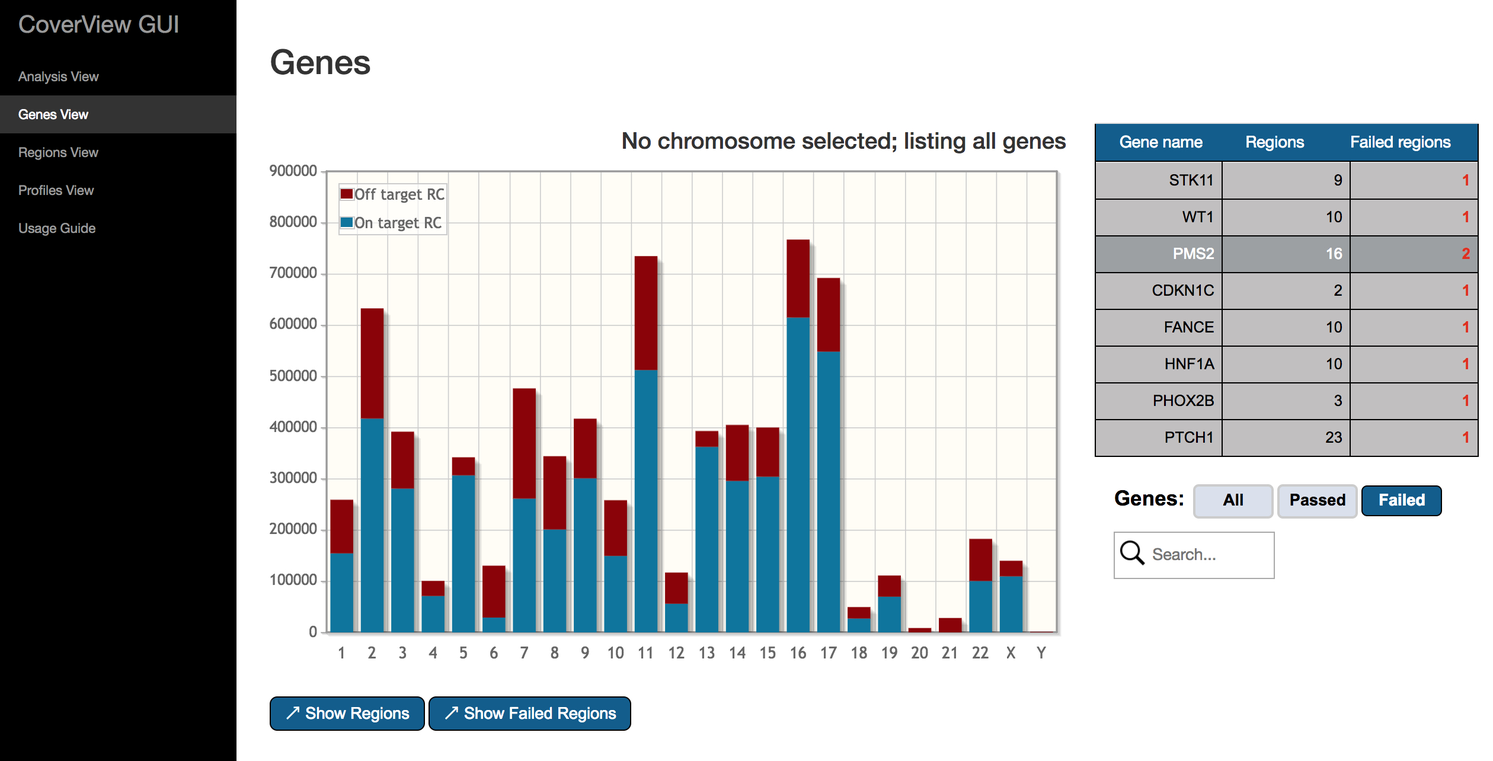
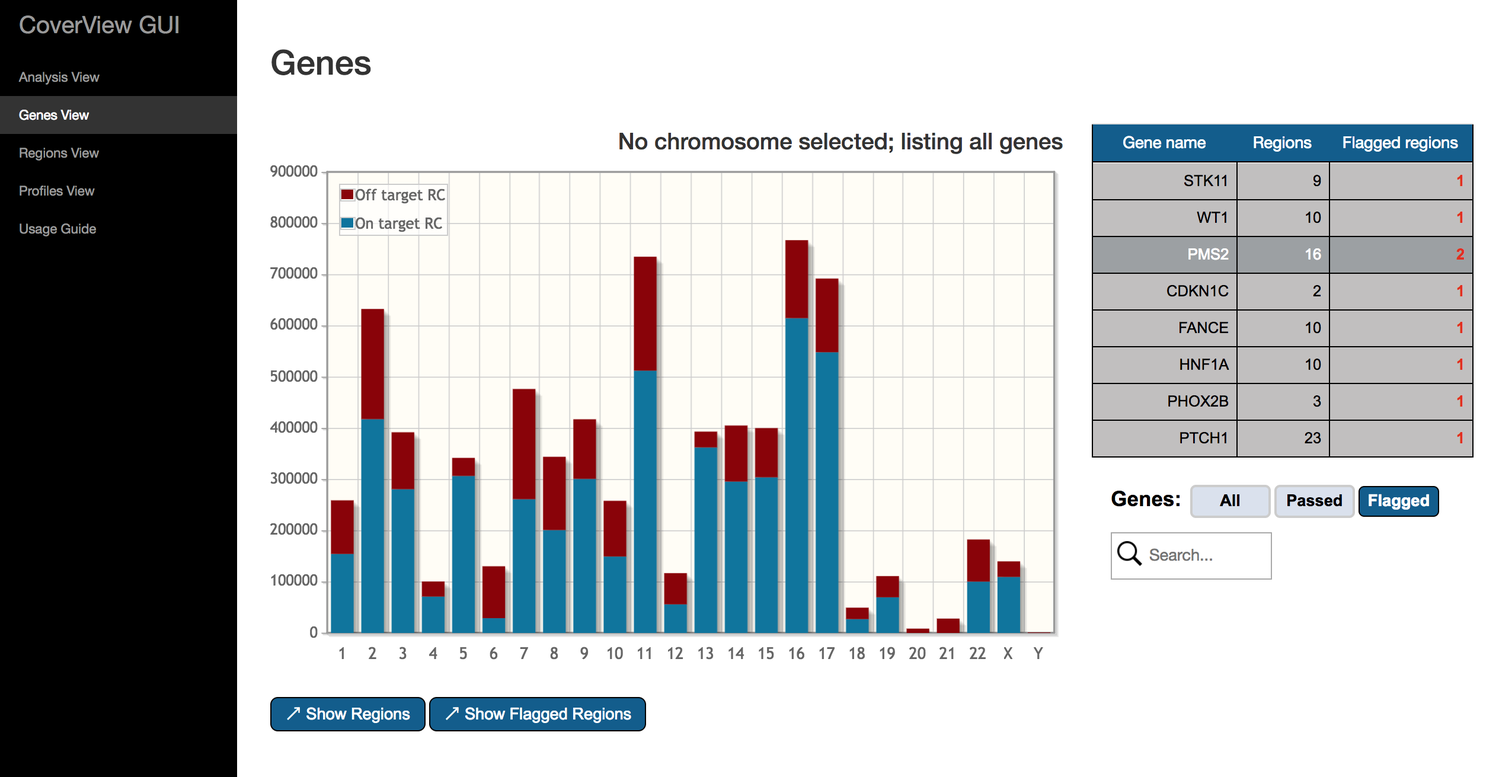
Figures updated in documentation

diff --git a/docs/searchindex.js b/docs/searchindex.js
@@ -1,1 +1,1 @@
-Search.setIndex({docnames:["documentation","index"],envversion:52,filenames:["documentation.rst","index.rst"],objects:{},objnames:{},objtypes:{},terms:{"4th":0,"boolean":0,"case":0,"default":0,"final":0,"import":0,"long":0,"new":[],"public":[],"switch":0,"true":0,Axes:0,For:0,That:[],The:1,These:0,With:1,_ensembldb_sect:[],_max:0,_meta:0,_min:0,_poor:0,_profil:0,_region:0,_summari:0,abov:0,accept:0,access:[],across:0,actual:[],add:0,added:0,addit:0,align:0,all:0,allow:0,alreadi:0,also:0,altern:0,analys:0,analysi:1,andth:[],ani:0,anoth:[],apt:0,arbitrari:0,argument:0,assess:[],avail:[],axes:0,axi:0,bai:0,bam:0,bar:0,base:1,bed:1,been:0,belong:0,below:0,between:0,bgzip:[],bin:[],bit:[],blabla:[],blablabla:[],blue:0,both:0,box:0,brace:[],brca2:0,brca2_1:0,brca2_2:0,brca2_3:0,browser:0,build:0,button:0,can:0,chang:0,chrom:0,chrome:0,chromosom:1,click:0,clutter:0,codit:[],color:0,column:0,come:0,comma:0,command:0,complex:[],comprehens:0,compress:[],compulsori:[],config:0,configur:1,configuraton:[],consid:0,consist:0,contain:0,content:1,continu:0,control:[],coordin:0,correctli:0,correspond:0,could:[],count:0,count_duplicate_read:[],cov:0,cover:0,coverag:0,coverview_1:[],coverview_x:[],creat:0,criteria:[],curli:[],current:0,cursor:0,cut:0,cutoff:[],dash:0,data:0,databas:0,dataset:0,date:0,debian:0,defin:0,definit:[],delet:0,denot:0,depend:1,dependecni:[],deriv:[],describ:0,descript:0,detail:0,dictionari:[],differ:0,diplai:0,direct:0,direction:[],directori:0,discuss:0,displai:0,dna:0,doe:[],done:[],doubl:[],download:0,downstream:0,drag:0,duplic:0,each:0,easi:[],easier:0,easiest:0,easili:0,effect:0,either:0,end:0,end_posit:0,end_transcript:0,ensembl:0,ensembl_db:1,ensembldb_sect:[],enst:0,env:[],equal:0,error:[],essenti:0,etc:0,evalu:0,everth:0,everyth:0,exact:0,exampl:0,example_config:[],example_profil:0,example_region:0,example_summari:0,exclud:0,exist:0,exom:0,exon:0,explan:[],explor:0,extra:0,extract:0,facilit:[],fai:0,faidx:0,fail:[],fals:0,fast:0,fasta:0,file:1,filter:0,find:0,finish:0,firefox:0,first:[],five:0,flag:0,flbq:0,flexibl:0,flmb:0,flmq:0,follow:0,format:0,forward:0,four:0,fourth:0,fraction:0,friendli:0,from:0,full:0,gcc:0,gene:1,gener:0,genesview:[],genom:0,get:0,git:[],github:0,give:0,given:0,global:0,gnu:0,googl:[],graph:0,graphic:1,group:0,gui:1,has:0,have:0,header:0,help:0,here:0,high:[],higher:[],highlight:0,horizont:0,hover:0,how:[],howev:0,http:[],identifi:0,illustr:0,imag:[],includ:0,incorrect:[],increas:0,index:0,inform:0,ini:0,ini_fil:[],input:0,instal:1,integ:0,interact:0,interest:0,interfac:1,introduct:1,its:0,javascipt:[],javascript:[],join:0,json:[],just:[],kei:0,label:0,languag:[],larger:0,later:0,least:0,left:0,less:[],level:1,like:[],line:0,link:0,linux:1,list:0,locat:0,look:[],lot:[],low:0,low_bq:0,low_mq:0,mac:1,mai:0,make:0,manag:0,mandatori:0,map:0,mark:0,maxflbq:0,maxflbq_max:0,maxflmq:0,maxflmq_max:[],maximum:0,mean:0,medbq:0,medcov:0,median:0,medmq:0,medqcov:0,metric:1,metric_max:0,metric_min:0,mincov:0,mincov_min:0,minimum:0,minqcov:0,minqcov_min:0,minumum:[],miss:0,modul:[],more:0,mous:0,move:0,multipl:0,must:0,name:0,navig:0,need:0,nest:[],next:0,none:0,normal:0,notat:[],note:0,number:0,oaf:[],object:[],obtain:[],obviou:[],off:0,onc:0,one:0,onli:0,only_fail_profil:[],only_flagged_profil:0,open:0,optimis:0,option:0,option_nam:[],option_valu:[],order:0,org:[],otherwis:0,out:0,output:1,outputprefix:[],outsid:0,over:0,overal:0,overlap:0,packag:0,page:[],pair:0,panel:0,paper:1,parsabl:0,part:[],particular:0,pass:0,pass_or_flag:0,path:0,per:1,pictur:[],pip:0,plot:0,png:[],point:0,poor:1,posit:0,possibl:0,pre:0,prefix:0,present:0,prevous:0,produc:[],profil:1,profiles_fil:0,provid:0,python2:0,python:0,qcov:0,qualiti:1,quot:[],rang:1,rcin:0,rcout:0,read:0,readi:0,record:0,red:0,redirect:0,ref:[],refer:0,regard:0,region:1,regions_fil:0,releas:0,relev:0,repeatedli:0,report:0,repres:0,request:[],requir:0,result:0,revers:0,right:0,row:0,run:1,safari:0,same:0,sampl:0,samtool:0,satisfi:0,scale:0,script:0,scrollabl:0,search:0,second:0,section:0,see:0,select:0,selector:0,separ:0,sequenc:0,seri:0,set:0,should:0,show:0,shown:0,side:0,simpl:0,simplifi:0,singl:0,smaller:0,soon:0,specif:[],specifi:0,stabl:[],start:0,start_posit:0,start_transcript:0,strand:0,string:[],studi:0,style:[],sub:0,subsect:0,successfulli:0,sudo:0,summar:0,summari:1,suppli:0,support:0,surround:[],swich:[],system:0,tabix:[],tabl:0,take:0,taken:0,tar:0,target:0,templat:[],termin:0,text:0,than:0,thei:0,them:0,thi:0,thing:0,those:0,threshold:0,time:[],togeth:0,too:0,tool:1,tooltip:0,top:0,total:0,transcript:0,transcript_coordin:0,transcript_databas:0,transcript_db:[],transript:[],two:0,txt:0,type:0,ubuntu:0,under:0,underscor:0,unmap:0,unpack:0,unselect:0,unzip:0,upstream:0,use:0,used:0,user:1,uses:0,using:0,v69:[],valid:[],valu:0,version:0,view:1,virtualenv:0,visibl:0,visual:0,wai:0,want:[],wayt:[],web:0,when:0,where:0,which:0,whilst:[],whole:0,wiki:[],wikipedia:[],window:1,within:0,without:1,would:0,write:[],written:0,xcode:0,xvzf:0,you:0,your:0,zip:0,zoom:0},titles:["1. Introduction","CoverView v1.4.1 documentation"],titleterms:{The:0,With:0,analysi:0,base:0,bed:0,chang:[],chromosom:0,configur:0,coverview:[0,1],depend:0,document:1,ensembl_db:0,file:0,futur:[],gene:0,graphic:0,gui:0,how:[],indic:[],instal:0,interfac:0,introduct:0,level:0,linux:0,mac:0,metric:0,output:0,paper:0,per:0,poor:0,profil:0,qualiti:0,rang:0,region:0,run:0,summari:0,tabl:[],target:[],tool:0,user:0,view:0,welcom:[],window:0,without:0}})
+Search.setIndex({docnames:["documentation","index"],envversion:52,filenames:["documentation.rst","index.rst"],objects:{},objnames:{},objtypes:{},terms:{"4th":0,"boolean":0,"case":0,"default":0,"final":0,"import":0,"long":0,"new":[],"public":[],"switch":0,"true":0,Axes:0,For:0,That:[],The:1,These:0,With:1,_ensembldb_sect:[],_max:0,_meta:0,_min:0,_poor:0,_profil:0,_region:0,_summari:0,abov:0,accept:0,access:[],across:0,actual:[],add:0,added:0,addit:0,align:0,all:0,allow:0,alreadi:0,also:0,altern:0,analys:0,analysi:1,andth:[],ani:0,anoth:[],apt:0,arbitrari:0,argument:0,assess:[],avail:[],axes:0,axi:0,bai:0,bam:0,bar:0,base:1,bed:1,been:0,belong:0,below:0,between:0,bgzip:[],bin:[],bit:[],blabla:[],blablabla:[],blue:0,both:0,box:0,brace:[],brca2:0,brca2_1:0,brca2_2:0,brca2_3:0,browser:0,build:0,button:0,can:0,chang:0,chrom:0,chrome:0,chromosom:1,click:0,clutter:0,codit:[],color:0,column:0,come:0,comma:0,command:0,complex:[],comprehens:0,compress:[],compulsori:[],config:0,configur:1,configuraton:[],consid:0,consist:0,contain:0,content:1,continu:0,control:[],coordin:0,correctli:0,correspond:0,could:[],count:0,count_duplicate_read:[],cov:0,cover:0,coverag:0,coverview_1:[],coverview_x:[],creat:0,criteria:[],curli:[],current:0,cursor:0,cut:0,cutoff:[],dash:0,data:0,databas:0,dataset:0,date:0,debian:0,defin:0,definit:[],delet:0,denot:0,depend:1,dependecni:[],deriv:[],describ:0,descript:0,detail:0,dictionari:[],differ:0,diplai:0,direct:0,direction:[],directori:0,discuss:0,displai:0,dna:0,doe:[],done:[],doubl:[],download:0,downstream:0,drag:0,duplic:0,each:0,easi:[],easier:0,easiest:0,easili:0,effect:0,either:0,end:0,end_posit:0,end_transcript:0,ensembl:0,ensembl_db:1,ensembldb_sect:[],enst:0,env:[],equal:0,error:[],essenti:0,etc:0,evalu:0,everth:0,everyth:0,exact:0,exampl:0,example_config:[],example_profil:0,example_region:0,example_summari:0,exclud:0,exist:0,exom:0,exon:0,explan:[],explor:0,extra:0,extract:0,facilit:[],fai:0,faidx:0,fail:[],fals:0,fast:0,fasta:0,file:1,filter:0,find:0,finish:0,firefox:0,first:[],five:0,flag:0,flbq:0,flexibl:0,flmb:0,flmq:0,follow:0,format:0,forward:0,four:0,fourth:0,fraction:0,friendli:0,from:0,full:0,gcc:0,gene:1,gener:0,genesview:[],genom:0,get:0,git:[],github:0,give:0,given:0,global:0,gnu:0,googl:[],graph:0,graphic:1,group:0,gui:1,has:0,have:0,header:0,help:0,here:0,high:[],higher:[],highlight:0,horizont:0,hover:0,how:[],howev:0,http:[],identifi:0,illustr:0,imag:[],includ:0,incorrect:[],increas:0,index:0,inform:0,ini:0,ini_fil:[],input:0,instal:1,integ:0,interact:0,interest:0,interfac:1,interv:1,introduct:1,its:0,javascipt:[],javascript:[],join:0,json:[],just:[],kei:0,label:0,languag:[],larger:0,later:0,least:0,left:0,less:[],level:1,like:[],line:0,link:0,linux:1,list:0,locat:0,look:[],lot:[],low:0,low_bq:0,low_mq:0,mac:1,mai:0,make:0,manag:0,mandatori:0,map:0,mark:0,maxflbq:0,maxflbq_max:0,maxflmq:0,maxflmq_max:[],maximum:0,mean:0,medbq:0,medcov:0,median:0,medmq:0,medqcov:0,metric:1,metric_max:0,metric_min:0,mincov:0,mincov_min:0,minimum:0,minqcov:0,minqcov_min:0,minumum:[],miss:0,modul:[],more:0,mous:0,move:0,multipl:0,must:0,name:0,navig:0,need:0,nest:[],next:0,none:0,normal:0,notat:[],note:0,number:0,oaf:[],object:[],obtain:[],obviou:[],off:0,onc:0,one:0,onli:0,only_fail_profil:[],only_flagged_profil:0,open:0,optimis:0,option:0,option_nam:[],option_valu:[],order:0,org:[],otherwis:0,out:0,output:1,outputprefix:[],outsid:0,over:0,overal:0,overlap:0,packag:0,page:[],pair:0,panel:0,paper:1,parsabl:0,part:[],particular:0,pass:0,pass_or_flag:0,path:0,per:1,pictur:[],pip:0,plot:0,png:[],point:0,poor:1,posit:0,possibl:0,pre:0,prefix:0,present:0,prevous:0,produc:[],profil:1,profiles_fil:0,provid:0,python2:0,python:0,qcov:0,qualiti:1,quot:[],rang:[],rcin:0,rcout:0,read:0,readi:0,record:0,red:0,redirect:0,ref:[],refer:0,regard:0,region:1,regions_fil:0,releas:0,relev:0,repeatedli:0,report:0,repres:0,request:[],requir:0,result:0,revers:0,right:0,row:0,run:1,safari:0,same:0,sampl:0,samtool:0,satisfi:0,scale:0,script:0,scrollabl:0,search:0,second:0,section:0,see:0,select:0,selector:0,separ:0,sequenc:0,seri:0,set:0,should:0,show:0,shown:0,side:0,simpl:0,simplifi:0,singl:0,smaller:0,soon:0,specif:[],specifi:0,stabl:[],start:0,start_posit:0,start_transcript:0,strand:0,string:[],studi:0,style:[],sub:0,subsect:0,successfulli:0,sudo:0,summar:0,summari:1,suppli:0,support:0,surround:[],swich:[],system:0,tabix:[],tabl:0,take:0,taken:0,tar:0,target:0,templat:[],termin:0,text:0,than:0,thei:0,them:0,thi:0,thing:0,those:0,threshold:0,time:[],togeth:0,too:0,tool:1,tooltip:0,top:0,total:0,transcript:0,transcript_coordin:0,transcript_databas:0,transcript_db:[],transript:[],two:0,txt:0,type:0,ubuntu:0,under:0,underscor:0,unmap:0,unpack:0,unselect:0,unzip:0,upstream:0,use:0,used:0,user:1,uses:0,using:0,v69:[],valid:[],valu:0,version:0,view:1,virtualenv:0,visibl:0,visual:0,wai:0,want:[],wayt:[],web:0,when:0,where:0,which:0,whilst:[],whole:0,wiki:[],wikipedia:[],window:1,within:0,without:1,would:0,write:[],written:0,xcode:0,xvzf:0,you:0,your:0,zip:0,zoom:0},titles:["1. Introduction","CoverView v1.4.1 documentation"],titleterms:{The:0,With:0,analysi:0,base:0,bed:0,chang:[],chromosom:0,configur:0,coverview:[0,1],depend:0,document:1,ensembl_db:0,file:0,futur:[],gene:0,graphic:0,gui:0,how:[],indic:[],instal:0,interfac:0,interv:0,introduct:0,level:0,linux:0,mac:0,metric:0,output:0,paper:0,per:0,poor:0,profil:0,qualiti:0,rang:[],region:0,run:0,summari:0,tabl:[],target:[],tool:0,user:0,view:0,welcom:[],window:0,without:0}})

diff --git a/docs/sphinx/_build/html/searchindex.js b/docs/sphinx/_build/html/searchindex.js
@@ -1,1 +1,1 @@
-Search.setIndex({docnames:["documentation","index"],envversion:52,filenames:["documentation.rst","index.rst"],objects:{},objnames:{},objtypes:{},terms:{"4th":0,"boolean":0,"case":0,"default":0,"final":0,"import":0,"long":0,"new":[],"public":[],"switch":0,"true":0,Axes:0,For:0,That:[],The:1,These:0,With:1,_ensembldb_sect:[],_max:0,_meta:0,_min:0,_poor:0,_profil:0,_region:0,_summari:0,abov:0,accept:0,access:[],across:0,actual:[],add:0,added:0,addit:0,align:0,all:0,allow:0,alreadi:0,also:0,altern:0,analys:0,analysi:1,andth:[],ani:0,anoth:[],apt:0,arbitrari:0,argument:0,assess:[],avail:[],axes:0,axi:0,bai:0,bam:0,bar:0,base:1,bed:1,been:0,belong:0,below:0,between:0,bgzip:[],bin:[],bit:[],blabla:[],blablabla:[],blue:0,both:0,box:0,brace:[],brca2:0,brca2_1:0,brca2_2:0,brca2_3:0,browser:0,build:0,button:0,can:0,chang:0,chrom:0,chrome:0,chromosom:1,click:0,clutter:0,codit:[],color:0,column:0,come:0,comma:0,command:0,complex:[],comprehens:0,compress:[],compulsori:[],config:0,configur:1,configuraton:[],consid:0,consist:0,contain:0,content:1,continu:0,control:[],coordin:0,correctli:0,correspond:0,could:[],count:0,count_duplicate_read:[],cov:0,cover:0,coverag:0,coverview_1:[],coverview_x:[],creat:0,criteria:[],curli:[],current:0,cursor:0,cut:0,cutoff:[],dash:0,data:0,databas:0,dataset:0,date:0,debian:0,defin:0,definit:[],delet:0,denot:0,depend:1,dependecni:[],deriv:[],describ:0,descript:0,detail:0,dictionari:[],differ:0,diplai:0,direct:0,direction:[],directori:0,discuss:0,displai:0,dna:0,doe:[],done:[],doubl:[],download:0,downstream:0,drag:0,duplic:0,each:0,easi:[],easier:0,easiest:0,easili:0,effect:0,either:0,end:0,end_posit:0,end_transcript:0,ensembl:0,ensembl_db:1,ensembldb_sect:[],enst:0,env:[],equal:0,error:[],essenti:0,etc:0,evalu:0,everth:0,everyth:0,exact:0,exampl:0,example_config:[],example_profil:0,example_region:0,example_summari:0,exclud:0,exist:0,exom:0,exon:0,explan:[],explor:0,extra:0,extract:0,facilit:[],fai:0,faidx:0,fail:[],fals:0,fast:0,fasta:0,file:1,filter:0,find:0,finish:0,firefox:0,first:[],five:0,flag:0,flbq:0,flexibl:0,flmb:0,flmq:0,follow:0,format:0,forward:0,four:0,fourth:0,fraction:0,friendli:0,from:0,full:0,gcc:0,gene:1,gener:0,genesview:[],genom:0,get:0,git:[],github:0,give:0,given:0,global:0,gnu:0,googl:[],graph:0,graphic:1,group:0,gui:1,has:0,have:0,header:0,help:0,here:0,high:[],higher:[],highlight:0,horizont:0,hover:0,how:[],howev:0,http:[],identifi:0,illustr:0,imag:[],includ:0,incorrect:[],increas:0,index:0,inform:0,ini:0,ini_fil:[],input:0,instal:1,integ:0,interact:0,interest:0,interfac:1,introduct:1,its:0,javascipt:[],javascript:[],join:0,json:[],just:[],kei:0,label:0,languag:[],larger:0,later:0,least:0,left:0,less:[],level:1,like:[],line:0,link:0,linux:1,list:0,locat:0,look:[],lot:[],low:0,low_bq:0,low_mq:0,mac:1,mai:0,make:0,manag:0,mandatori:0,map:0,mark:0,maxflbq:0,maxflbq_max:0,maxflmq:0,maxflmq_max:[],maximum:0,mean:0,medbq:0,medcov:0,median:0,medmq:0,medqcov:0,metric:1,metric_max:0,metric_min:0,mincov:0,mincov_min:0,minimum:0,minqcov:0,minqcov_min:0,minumum:[],miss:0,modul:[],more:0,mous:0,move:0,multipl:0,must:0,name:0,navig:0,need:0,nest:[],next:0,none:0,normal:0,notat:[],note:0,number:0,oaf:[],object:[],obtain:[],obviou:[],off:0,onc:0,one:0,onli:0,only_fail_profil:[],only_flagged_profil:0,open:0,optimis:0,option:0,option_nam:[],option_valu:[],order:0,org:[],otherwis:0,out:0,output:1,outputprefix:[],outsid:0,over:0,overal:0,overlap:0,packag:0,page:[],pair:0,panel:0,paper:1,parsabl:0,part:[],particular:0,pass:0,pass_or_flag:0,path:0,per:1,pictur:[],pip:0,plot:0,png:[],point:0,poor:1,posit:0,possibl:0,pre:0,prefix:0,present:0,prevous:0,produc:[],profil:1,profiles_fil:0,provid:0,python2:0,python:0,qcov:0,qualiti:1,quot:[],rang:1,rcin:0,rcout:0,read:0,readi:0,record:0,red:0,redirect:0,ref:[],refer:0,regard:0,region:1,regions_fil:0,releas:0,relev:0,repeatedli:0,report:0,repres:0,request:[],requir:0,result:0,revers:0,right:0,row:0,run:1,safari:0,same:0,sampl:0,samtool:0,satisfi:0,scale:0,script:0,scrollabl:0,search:0,second:0,section:0,see:0,select:0,selector:0,separ:0,sequenc:0,seri:0,set:0,should:0,show:0,shown:0,side:0,simpl:0,simplifi:0,singl:0,smaller:0,soon:0,specif:[],specifi:0,stabl:[],start:0,start_posit:0,start_transcript:0,strand:0,string:[],studi:0,style:[],sub:0,subsect:0,successfulli:0,sudo:0,summar:0,summari:1,suppli:0,support:0,surround:[],swich:[],system:0,tabix:[],tabl:0,take:0,taken:0,tar:0,target:0,templat:[],termin:0,text:0,than:0,thei:0,them:0,thi:0,thing:0,those:0,threshold:0,time:[],togeth:0,too:0,tool:1,tooltip:0,top:0,total:0,transcript:0,transcript_coordin:0,transcript_databas:0,transcript_db:[],transript:[],two:0,txt:0,type:0,ubuntu:0,under:0,underscor:0,unmap:0,unpack:0,unselect:0,unzip:0,upstream:0,use:0,used:0,user:1,uses:0,using:0,v69:[],valid:[],valu:0,version:0,view:1,virtualenv:0,visibl:0,visual:0,wai:0,want:[],wayt:[],web:0,when:0,where:0,which:0,whilst:[],whole:0,wiki:[],wikipedia:[],window:1,within:0,without:1,would:0,write:[],written:0,xcode:0,xvzf:0,you:0,your:0,zip:0,zoom:0},titles:["1. Introduction","CoverView v1.4.1 documentation"],titleterms:{The:0,With:0,analysi:0,base:0,bed:0,chang:[],chromosom:0,configur:0,coverview:[0,1],depend:0,document:1,ensembl_db:0,file:0,futur:[],gene:0,graphic:0,gui:0,how:[],indic:[],instal:0,interfac:0,introduct:0,level:0,linux:0,mac:0,metric:0,output:0,paper:0,per:0,poor:0,profil:0,qualiti:0,rang:0,region:0,run:0,summari:0,tabl:[],target:[],tool:0,user:0,view:0,welcom:[],window:0,without:0}})
+Search.setIndex({docnames:["documentation","index"],envversion:52,filenames:["documentation.rst","index.rst"],objects:{},objnames:{},objtypes:{},terms:{"4th":0,"boolean":0,"case":0,"default":0,"final":0,"import":0,"long":0,"new":[],"public":[],"switch":0,"true":0,Axes:0,For:0,That:[],The:1,These:0,With:1,_ensembldb_sect:[],_max:0,_meta:0,_min:0,_poor:0,_profil:0,_region:0,_summari:0,abov:0,accept:0,access:[],across:0,actual:[],add:0,added:0,addit:0,align:0,all:0,allow:0,alreadi:0,also:0,altern:0,analys:0,analysi:1,andth:[],ani:0,anoth:[],apt:0,arbitrari:0,argument:0,assess:[],avail:[],axes:0,axi:0,bai:0,bam:0,bar:0,base:1,bed:1,been:0,belong:0,below:0,between:0,bgzip:[],bin:[],bit:[],blabla:[],blablabla:[],blue:0,both:0,box:0,brace:[],brca2:0,brca2_1:0,brca2_2:0,brca2_3:0,browser:0,build:0,button:0,can:0,chang:0,chrom:0,chrome:0,chromosom:1,click:0,clutter:0,codit:[],color:0,column:0,come:0,comma:0,command:0,complex:[],comprehens:0,compress:[],compulsori:[],config:0,configur:1,configuraton:[],consid:0,consist:0,contain:0,content:1,continu:0,control:[],coordin:0,correctli:0,correspond:0,could:[],count:0,count_duplicate_read:[],cov:0,cover:0,coverag:0,coverview_1:[],coverview_x:[],creat:0,criteria:[],curli:[],current:0,cursor:0,cut:0,cutoff:[],dash:0,data:0,databas:0,dataset:0,date:0,debian:0,defin:0,definit:[],delet:0,denot:0,depend:1,dependecni:[],deriv:[],describ:0,descript:0,detail:0,dictionari:[],differ:0,diplai:0,direct:0,direction:[],directori:0,discuss:0,displai:0,dna:0,doe:[],done:[],doubl:[],download:0,downstream:0,drag:0,duplic:0,each:0,easi:[],easier:0,easiest:0,easili:0,effect:0,either:0,end:0,end_posit:0,end_transcript:0,ensembl:0,ensembl_db:1,ensembldb_sect:[],enst:0,env:[],equal:0,error:[],essenti:0,etc:0,evalu:0,everth:0,everyth:0,exact:0,exampl:0,example_config:[],example_profil:0,example_region:0,example_summari:0,exclud:0,exist:0,exom:0,exon:0,explan:[],explor:0,extra:0,extract:0,facilit:[],fai:0,faidx:0,fail:[],fals:0,fast:0,fasta:0,file:1,filter:0,find:0,finish:0,firefox:0,first:[],five:0,flag:0,flbq:0,flexibl:0,flmb:0,flmq:0,follow:0,format:0,forward:0,four:0,fourth:0,fraction:0,friendli:0,from:0,full:0,gcc:0,gene:1,gener:0,genesview:[],genom:0,get:0,git:[],github:0,give:0,given:0,global:0,gnu:0,googl:[],graph:0,graphic:1,group:0,gui:1,has:0,have:0,header:0,help:0,here:0,high:[],higher:[],highlight:0,horizont:0,hover:0,how:[],howev:0,http:[],identifi:0,illustr:0,imag:[],includ:0,incorrect:[],increas:0,index:0,inform:0,ini:0,ini_fil:[],input:0,instal:1,integ:0,interact:0,interest:0,interfac:1,interv:1,introduct:1,its:0,javascipt:[],javascript:[],join:0,json:[],just:[],kei:0,label:0,languag:[],larger:0,later:0,least:0,left:0,less:[],level:1,like:[],line:0,link:0,linux:1,list:0,locat:0,look:[],lot:[],low:0,low_bq:0,low_mq:0,mac:1,mai:0,make:0,manag:0,mandatori:0,map:0,mark:0,maxflbq:0,maxflbq_max:0,maxflmq:0,maxflmq_max:[],maximum:0,mean:0,medbq:0,medcov:0,median:0,medmq:0,medqcov:0,metric:1,metric_max:0,metric_min:0,mincov:0,mincov_min:0,minimum:0,minqcov:0,minqcov_min:0,minumum:[],miss:0,modul:[],more:0,mous:0,move:0,multipl:0,must:0,name:0,navig:0,need:0,nest:[],next:0,none:0,normal:0,notat:[],note:0,number:0,oaf:[],object:[],obtain:[],obviou:[],off:0,onc:0,one:0,onli:0,only_fail_profil:[],only_flagged_profil:0,open:0,optimis:0,option:0,option_nam:[],option_valu:[],order:0,org:[],otherwis:0,out:0,output:1,outputprefix:[],outsid:0,over:0,overal:0,overlap:0,packag:0,page:[],pair:0,panel:0,paper:1,parsabl:0,part:[],particular:0,pass:0,pass_or_flag:0,path:0,per:1,pictur:[],pip:0,plot:0,png:[],point:0,poor:1,posit:0,possibl:0,pre:0,prefix:0,present:0,prevous:0,produc:[],profil:1,profiles_fil:0,provid:0,python2:0,python:0,qcov:0,qualiti:1,quot:[],rang:[],rcin:0,rcout:0,read:0,readi:0,record:0,red:0,redirect:0,ref:[],refer:0,regard:0,region:1,regions_fil:0,releas:0,relev:0,repeatedli:0,report:0,repres:0,request:[],requir:0,result:0,revers:0,right:0,row:0,run:1,safari:0,same:0,sampl:0,samtool:0,satisfi:0,scale:0,script:0,scrollabl:0,search:0,second:0,section:0,see:0,select:0,selector:0,separ:0,sequenc:0,seri:0,set:0,should:0,show:0,shown:0,side:0,simpl:0,simplifi:0,singl:0,smaller:0,soon:0,specif:[],specifi:0,stabl:[],start:0,start_posit:0,start_transcript:0,strand:0,string:[],studi:0,style:[],sub:0,subsect:0,successfulli:0,sudo:0,summar:0,summari:1,suppli:0,support:0,surround:[],swich:[],system:0,tabix:[],tabl:0,take:0,taken:0,tar:0,target:0,templat:[],termin:0,text:0,than:0,thei:0,them:0,thi:0,thing:0,those:0,threshold:0,time:[],togeth:0,too:0,tool:1,tooltip:0,top:0,total:0,transcript:0,transcript_coordin:0,transcript_databas:0,transcript_db:[],transript:[],two:0,txt:0,type:0,ubuntu:0,under:0,underscor:0,unmap:0,unpack:0,unselect:0,unzip:0,upstream:0,use:0,used:0,user:1,uses:0,using:0,v69:[],valid:[],valu:0,version:0,view:1,virtualenv:0,visibl:0,visual:0,wai:0,want:[],wayt:[],web:0,when:0,where:0,which:0,whilst:[],whole:0,wiki:[],wikipedia:[],window:1,within:0,without:1,would:0,write:[],written:0,xcode:0,xvzf:0,you:0,your:0,zip:0,zoom:0},titles:["1. Introduction","CoverView v1.4.1 documentation"],titleterms:{The:0,With:0,analysi:0,base:0,bed:0,chang:[],chromosom:0,configur:0,coverview:[0,1],depend:0,document:1,ensembl_db:0,file:0,futur:[],gene:0,graphic:0,gui:0,how:[],indic:[],instal:0,interfac:0,interv:0,introduct:0,level:0,linux:0,mac:0,metric:0,output:0,paper:0,per:0,poor:0,profil:0,qualiti:0,rang:[],region:0,run:0,summari:0,tabl:[],target:[],tool:0,user:0,view:0,welcom:[],window:0,without:0}})

diff --git a/docs/documentation.html b/docs/documentation.html
@@ -255,7 +255,7 @@ name of the input BAM file (-i), the name of a BED file (-b) and the output file
 <li>&lt;prefix&gt;_summary.txt (chromosome level summary)</li>
 <li>&lt;prefix&gt;_profiles.txt (per-base profiles)</li>
 <li>&lt;prefix&gt;_regions.txt (summary metrics of regions)</li>
-<li>&lt;prefix&gt;_poor.txt (poor quality ranges)</li>
+<li>&lt;prefix&gt;_poor.txt (poor quality intervals)</li>
 </ul>
 <p>where &lt;prefix&gt; denotes the output file name prefix specified by the -o command line option. (Note that an additional file, &lt;prefix&gt;_meta.txt, is also created that is required by the GUI.)</p>
 <div class="section" id="chromosome-level-summary">
@@ -398,9 +398,9 @@ name of the input BAM file (-i), the name of a BED file (-b) and the output file
 <li><code class="docutils literal"><span class="pre">MEDCOV-</span></code>, <code class="docutils literal"><span class="pre">MINCOV-</span></code>, <code class="docutils literal"><span class="pre">MEDQCOV-</span></code>, <code class="docutils literal"><span class="pre">MINQCOV-</span></code>, <code class="docutils literal"><span class="pre">MAXFLMQ-</span></code> and <code class="docutils literal"><span class="pre">MAXFLBQ-</span></code>: the same information, considering only reverse reads</li>
 </ul>
 </div>
-<div class="section" id="poor-quality-ranges">
-<h2>5.4. Poor quality ranges<a class="headerlink" href="#poor-quality-ranges" title="Permalink to this headline">¶</a></h2>
-<p>If the <code class="docutils literal"><span class="pre">profiles_file</span></code> option is set to <em>true</em> in both the [outputs] section and [transcript] section of the configuration file, CoverView will create a fourth output file; <em>&lt;prefix&gt;_poor.txt</em>. This file provides a comprehensive list of all continuous ranges within the studied regions with QCOV&lt;15 for all bases (referred to as <em>“poor quality ranges”</em>). Note that multiple such ranges may exist in a single region. Each line in the file corresponds to a <em>poor quality range</em> with the following 6 columns:</p>
+<div class="section" id="poor-quality-intervals">
+<h2>5.4. Poor quality intervals<a class="headerlink" href="#poor-quality-intervals" title="Permalink to this headline">¶</a></h2>
+<p>If the <code class="docutils literal"><span class="pre">profiles_file</span></code> option is set to <em>true</em> in both the [outputs] section and [transcript] section of the configuration file, CoverView will create a fourth output file; <em>&lt;prefix&gt;_poor.txt</em>. This file provides a comprehensive list of all continuous intervals within the studied regions with QCOV&lt;15 for all bases (referred to as <em>“poor quality intervals”</em>). Note that multiple such intervals may exist in a single region. Each line in the file corresponds to a <em>poor quality interval</em> with the following 6 columns:</p>
 <table border="1" class="colwidths-given docutils">
 <colgroup>
 <col width="13%" />
@@ -413,22 +413,22 @@ name of the input BAM file (-i), the name of a BED file (-b) and the output file
 </thead>
 <tbody valign="top">
 <tr class="row-even"><td>Region</td>
-<td>name of region which contains the range</td>
+<td>name of region which contains the interval</td>
 </tr>
 <tr class="row-odd"><td>Chromosome</td>
 <td>chromosome name</td>
 </tr>
 <tr class="row-even"><td>Start_position</td>
-<td>start position of range on chromosome</td>
+<td>start position of interval on chromosome</td>
 </tr>
 <tr class="row-odd"><td>End_position</td>
-<td>end position of range on chromosome</td>
+<td>end position of interval on chromosome</td>
 </tr>
 <tr class="row-even"><td>Start_transcript</td>
-<td>start coordinate of range in the overlapping transcript</td>
+<td>start coordinate of interval in the overlapping transcript</td>
 </tr>
 <tr class="row-odd"><td>End_transcript</td>
-<td>end coordinate of range in the overlapping transcript</td>
+<td>end coordinate of interval in the overlapping transcript</td>
 </tr>
 </tbody>
 </table>
@@ -519,7 +519,7 @@ name of the input BAM file (-i), the name of a BED file (-b) and the output file
 <li><a class="reference internal" href="#chromosome-level-summary">5.1. Chromosome level summary</a></li>
 <li><a class="reference internal" href="#per-base-profiles">5.2. Per-base profiles</a></li>
 <li><a class="reference internal" href="#summary-metrics-of-regions">5.3. Summary metrics of regions</a></li>
-<li><a class="reference internal" href="#poor-quality-ranges">5.4. Poor quality ranges</a></li>
+<li><a class="reference internal" href="#poor-quality-intervals">5.4. Poor quality intervals</a></li>
 </ul>
 </li>
 <li><a class="reference internal" href="#graphical-user-interface-gui">6. Graphical User Interface (GUI)</a><ul>

diff --git a/docs/sphinx/_build/html/documentation.html b/docs/sphinx/_build/html/documentation.html
@@ -255,7 +255,7 @@ name of the input BAM file (-i), the name of a BED file (-b) and the output file
 <li>&lt;prefix&gt;_summary.txt (chromosome level summary)</li>
 <li>&lt;prefix&gt;_profiles.txt (per-base profiles)</li>
 <li>&lt;prefix&gt;_regions.txt (summary metrics of regions)</li>
-<li>&lt;prefix&gt;_poor.txt (poor quality ranges)</li>
+<li>&lt;prefix&gt;_poor.txt (poor quality intervals)</li>
 </ul>
 <p>where &lt;prefix&gt; denotes the output file name prefix specified by the -o command line option. (Note that an additional file, &lt;prefix&gt;_meta.txt, is also created that is required by the GUI.)</p>
 <div class="section" id="chromosome-level-summary">
@@ -398,9 +398,9 @@ name of the input BAM file (-i), the name of a BED file (-b) and the output file
 <li><code class="docutils literal"><span class="pre">MEDCOV-</span></code>, <code class="docutils literal"><span class="pre">MINCOV-</span></code>, <code class="docutils literal"><span class="pre">MEDQCOV-</span></code>, <code class="docutils literal"><span class="pre">MINQCOV-</span></code>, <code class="docutils literal"><span class="pre">MAXFLMQ-</span></code> and <code class="docutils literal"><span class="pre">MAXFLBQ-</span></code>: the same information, considering only reverse reads</li>
 </ul>
 </div>
-<div class="section" id="poor-quality-ranges">
-<h2>5.4. Poor quality ranges<a class="headerlink" href="#poor-quality-ranges" title="Permalink to this headline">¶</a></h2>
-<p>If the <code class="docutils literal"><span class="pre">profiles_file</span></code> option is set to <em>true</em> in both the [outputs] section and [transcript] section of the configuration file, CoverView will create a fourth output file; <em>&lt;prefix&gt;_poor.txt</em>. This file provides a comprehensive list of all continuous ranges within the studied regions with QCOV&lt;15 for all bases (referred to as <em>“poor quality ranges”</em>). Note that multiple such ranges may exist in a single region. Each line in the file corresponds to a <em>poor quality range</em> with the following 6 columns:</p>
+<div class="section" id="poor-quality-intervals">
+<h2>5.4. Poor quality intervals<a class="headerlink" href="#poor-quality-intervals" title="Permalink to this headline">¶</a></h2>
+<p>If the <code class="docutils literal"><span class="pre">profiles_file</span></code> option is set to <em>true</em> in both the [outputs] section and [transcript] section of the configuration file, CoverView will create a fourth output file; <em>&lt;prefix&gt;_poor.txt</em>. This file provides a comprehensive list of all continuous intervals within the studied regions with QCOV&lt;15 for all bases (referred to as <em>“poor quality intervals”</em>). Note that multiple such intervals may exist in a single region. Each line in the file corresponds to a <em>poor quality interval</em> with the following 6 columns:</p>
 <table border="1" class="colwidths-given docutils">
 <colgroup>
 <col width="13%" />
@@ -413,22 +413,22 @@ name of the input BAM file (-i), the name of a BED file (-b) and the output file
 </thead>
 <tbody valign="top">
 <tr class="row-even"><td>Region</td>
-<td>name of region which contains the range</td>
+<td>name of region which contains the interval</td>
 </tr>
 <tr class="row-odd"><td>Chromosome</td>
 <td>chromosome name</td>
 </tr>
 <tr class="row-even"><td>Start_position</td>
-<td>start position of range on chromosome</td>
+<td>start position of interval on chromosome</td>
 </tr>
 <tr class="row-odd"><td>End_position</td>
-<td>end position of range on chromosome</td>
+<td>end position of interval on chromosome</td>
 </tr>
 <tr class="row-even"><td>Start_transcript</td>
-<td>start coordinate of range in the overlapping transcript</td>
+<td>start coordinate of interval in the overlapping transcript</td>
 </tr>
 <tr class="row-odd"><td>End_transcript</td>
-<td>end coordinate of range in the overlapping transcript</td>
+<td>end coordinate of interval in the overlapping transcript</td>
 </tr>
 </tbody>
 </table>
@@ -519,7 +519,7 @@ name of the input BAM file (-i), the name of a BED file (-b) and the output file
 <li><a class="reference internal" href="#chromosome-level-summary">5.1. Chromosome level summary</a></li>
 <li><a class="reference internal" href="#per-base-profiles">5.2. Per-base profiles</a></li>
 <li><a class="reference internal" href="#summary-metrics-of-regions">5.3. Summary metrics of regions</a></li>
-<li><a class="reference internal" href="#poor-quality-ranges">5.4. Poor quality ranges</a></li>
+<li><a class="reference internal" href="#poor-quality-intervals">5.4. Poor quality intervals</a></li>
 </ul>
 </li>
 <li><a class="reference internal" href="#graphical-user-interface-gui">6. Graphical User Interface (GUI)</a><ul>

diff --git a/docs/index.html b/docs/index.html
@@ -67,7 +67,7 @@
 <li class="toctree-l2"><a class="reference internal" href="documentation.html#chromosome-level-summary">5.1. Chromosome level summary</a></li>
 <li class="toctree-l2"><a class="reference internal" href="documentation.html#per-base-profiles">5.2. Per-base profiles</a></li>
 <li class="toctree-l2"><a class="reference internal" href="documentation.html#summary-metrics-of-regions">5.3. Summary metrics of regions</a></li>
-<li class="toctree-l2"><a class="reference internal" href="documentation.html#poor-quality-ranges">5.4. Poor quality ranges</a></li>
+<li class="toctree-l2"><a class="reference internal" href="documentation.html#poor-quality-intervals">5.4. Poor quality intervals</a></li>
 </ul>
 </li>
 <li class="toctree-l1"><a class="reference internal" href="documentation.html#graphical-user-interface-gui">6. Graphical User Interface (GUI)</a><ul>

diff --git a/docs/sphinx/_build/html/index.html b/docs/sphinx/_build/html/index.html
@@ -67,7 +67,7 @@
 <li class="toctree-l2"><a class="reference internal" href="documentation.html#chromosome-level-summary">5.1. Chromosome level summary</a></li>
 <li class="toctree-l2"><a class="reference internal" href="documentation.html#per-base-profiles">5.2. Per-base profiles</a></li>
 <li class="toctree-l2"><a class="reference internal" href="documentation.html#summary-metrics-of-regions">5.3. Summary metrics of regions</a></li>
-<li class="toctree-l2"><a class="reference internal" href="documentation.html#poor-quality-ranges">5.4. Poor quality ranges</a></li>
+<li class="toctree-l2"><a class="reference internal" href="documentation.html#poor-quality-intervals">5.4. Poor quality intervals</a></li>
 </ul>
 </li>
 <li class="toctree-l1"><a class="reference internal" href="documentation.html#graphical-user-interface-gui">6. Graphical User Interface (GUI)</a><ul>

diff --git a/bin/EnsemblDB.py b/bin/EnsemblDB.py
@@ -9,8 +9,8 @@ _version = '1.4.1'
 # Command line argument parsing
 descr = 'CoverView ensembl_db v'+_version
 parser = OptionParser(usage='CoverView-1.4.1/ensembl_db <options>', version=_version, description=descr)
-parser.add_option('-i', "--in", default=None, dest='input', action='store',help="Input filename (list of ENST IDs)")
-parser.add_option('-o', "--out", default=None, dest='output', action='store', help="Output filename prefix")
+parser.add_option('-i', "--input", default=None, dest='input', action='store',help="Input filename (list of ENST IDs)")
+parser.add_option('-o', "--output", default=None, dest='output', action='store', help="Output filename prefix")
 parser.add_option('-e', "--ens", default=None, dest='ensembl', action='store', help="Ensembl release version")
 (options, args) = parser.parse_args()
 

diff --git a/docs/sphinx/documentation.rst b/docs/sphinx/documentation.rst
@@ -184,7 +184,7 @@ CoverView generates 4 easily parsable (column-based) output files:
 * <prefix>_summary.txt (chromosome level summary)
 * <prefix>_profiles.txt (per-base profiles)
 * <prefix>_regions.txt (summary metrics of regions)
-* <prefix>_poor.txt (poor quality ranges)
+* <prefix>_poor.txt (poor quality intervals)
 
 where <prefix> denotes the output file name prefix specified by the -o command line option. (Note that an additional file, <prefix>_meta.txt, is also created that is required by the GUI.)
 
@@ -268,22 +268,22 @@ Finally, if the ``direction`` flag is set to *true* in the [reads] section of th
 * ``MEDCOV-``, ``MINCOV-``, ``MEDQCOV-``, ``MINQCOV-``, ``MAXFLMQ-`` and ``MAXFLBQ-``: the same information, considering only reverse reads
 
 
-Poor quality ranges
-===================
+Poor quality intervals
+======================
 
-If the ``profiles_file`` option is set to *true* in both the [outputs] section and [transcript] section of the configuration file, CoverView will create a fourth output file; *<prefix>_poor.txt*. This file provides a comprehensive list of all continuous ranges within the studied regions with QCOV<15 for all bases (referred to as *"poor quality ranges"*). Note that multiple such ranges may exist in a single region. Each line in the file corresponds to a *poor quality range* with the following 6 columns:
+If the ``profiles_file`` option is set to *true* in both the [outputs] section and [transcript] section of the configuration file, CoverView will create a fourth output file; *<prefix>_poor.txt*. This file provides a comprehensive list of all continuous intervals within the studied regions with QCOV<15 for all bases (referred to as *"poor quality intervals"*). Note that multiple such intervals may exist in a single region. Each line in the file corresponds to a *poor quality interval* with the following 6 columns:
 
 
 .. csv-table::
     :header: "Column name", "Description"
     :widths: 13, 87
 
-    Region, name of region which contains the range
+    Region, name of region which contains the interval
     Chromosome, chromosome name
-    Start_position, start position of range on chromosome
-    End_position, end position of range on chromosome
-    Start_transcript, start coordinate of range in the overlapping transcript
-    End_transcript, end coordinate of range in the overlapping transcript
+    Start_position, start position of interval on chromosome
+    End_position, end position of interval on chromosome
+    Start_transcript, start coordinate of interval in the overlapping transcript
+    End_transcript, end coordinate of interval in the overlapping transcript
 
 
 In case the start or end position overlaps with multiple transcripts, the coordinates in all transcripts are reported separated by commas.
